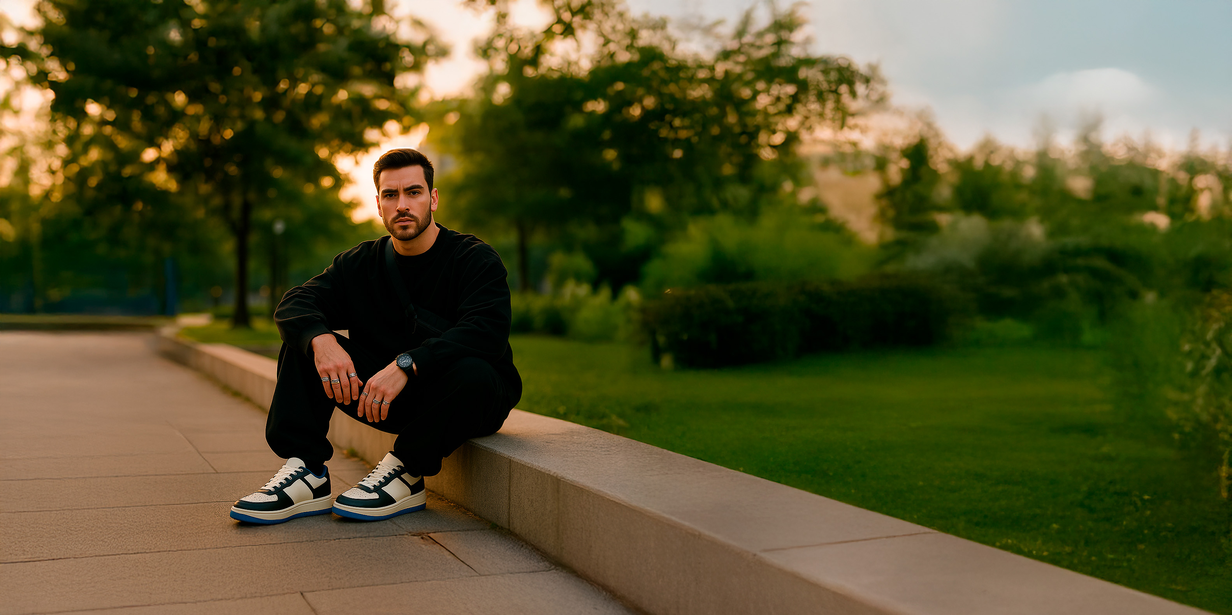
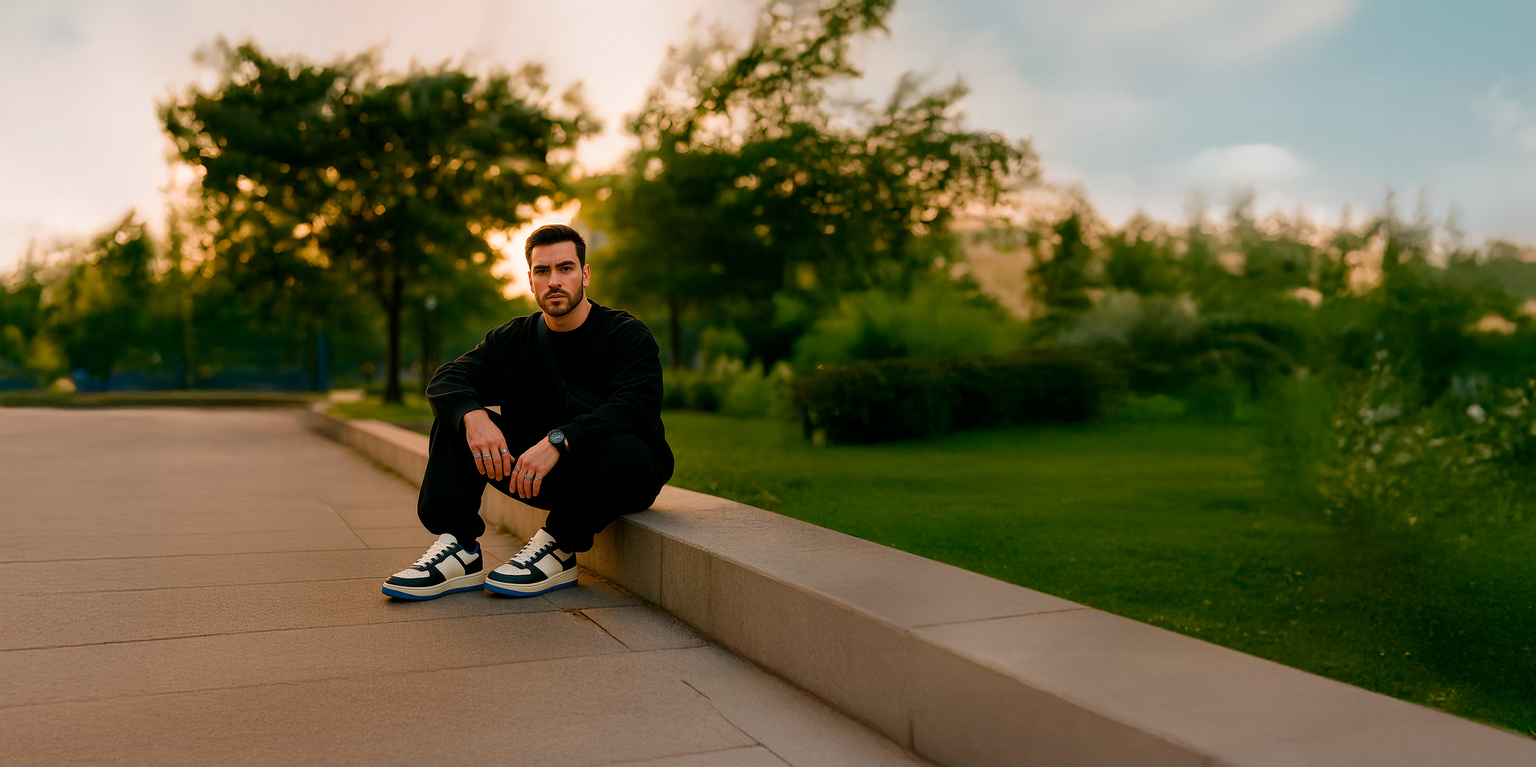
feat: adiciona seção de categorias

diff --git a/src/components/Categories/index.tsx b/src/components/Categories/index.tsx
@@ -1,0 +1,27 @@
+import tenisBranco from "@/assets/images/tenis-branco.jpg";
+import tenisCinza from "@/assets/images/tenis-cinza.jpg";
+import tenisFuturista from "@/assets/images/tenis-futurista.jpg";
+import tenisColorido from "@/assets/images/tenis-colorido.jpg";
+import { Button } from '../Button'; // Importe o componente Button from '../Button';
+
+const categories = [
+  { name: "Casual", image: tenisBranco },
+  { name: "Esporte", image: tenisCinza },
+  { name: "Moderno", image: tenisColorido },
+  { name: "Futurista", image: tenisFuturista },
+];
+
+export const Categories = () => {
+  return (
+    <section className='container flex gap-2.5 lg:grid lg:grid-cols-4 lg:gap-4 mb-10 overflow-x-auto scrollbar-hide snap-x snap-mandatory'>
+      {categories.map((category, index) => (
+        <div key={index} style={{backgroundImage: `url(${category.image})`}} className='h-125 bg-cover bg-center rounded-[20px] relative text-white shrink-0 w-[95%] md:w-1/2 lg:w-full flex justify-center items-center snap-center'>
+          <div className='absolute inset-0 bg-black/30 rounded-[20px]'></div>
+          <div className='relative'>
+            <Button size='md' variant='secondary'>{category.name}</Button>
+          </div>
+        </div>
+      ))}
+    </section>
+  );
+};

diff --git a/src/components/Header/index.tsx b/src/components/Header/index.tsx
@@ -1,13 +1,13 @@
 import logo from "@/assets/images/Logo.png";
 import IconUser from "@/assets/images/icon-user.png";
-import IconAbolt from "@/assets/images/ícon-about.png";
-import Iconcart from "@/assets/images/ícon-cart.png";
+import IconAbolt from "@/assets/images/icon-about.png";
+import Iconcart from "@/assets/images/icon-cart.png";
 
 export const Header = () => {
   return (
     <div className="relative">
       <header className="fixed top-10 left-0 right-0 z-10 mx-10 ">
-        <div className="bg-white max-w-[1320px] mx-auto flex justify-between items-center py-3 px-7 rounded-2xl mt-5">
+        <div className="bg-white max-w-330 mx-auto flex justify-between items-center py-3 px-7 rounded-2xl mt-5">
           <img className='w-32 md:w-36' src={logo} alt="Logo" />
           <nav className='hidden md:block'>
             <ul className='flex gap-4 md:gap-10'>

diff --git a/src/App.tsx b/src/App.tsx
@@ -1,3 +1,4 @@
+import { Categories } from './components/Categories'
 import { Header } from './components/Header'
 import { Hero } from './components/Hero'
 
@@ -9,6 +10,7 @@ function App() {
       <Header />
       <main className='py-10'>
       <Hero />
+      <Categories />
       </main>
     </>
   )

diff --git a/src/styles/globals.css b/src/styles/globals.css
@@ -51,5 +51,14 @@
 body {
     font-family: var(--font-display);
 }
+* Esconde scrollbar no Chrome, Safari e Edge */
+.scrollbar-hide::-webkit-scrollbar {
+  display: none;
+}
+
+/* Esconde scrollbar no Firefox */
+.scrollbar-hide {
+  scrollbar-width: none;
+}
 
 
